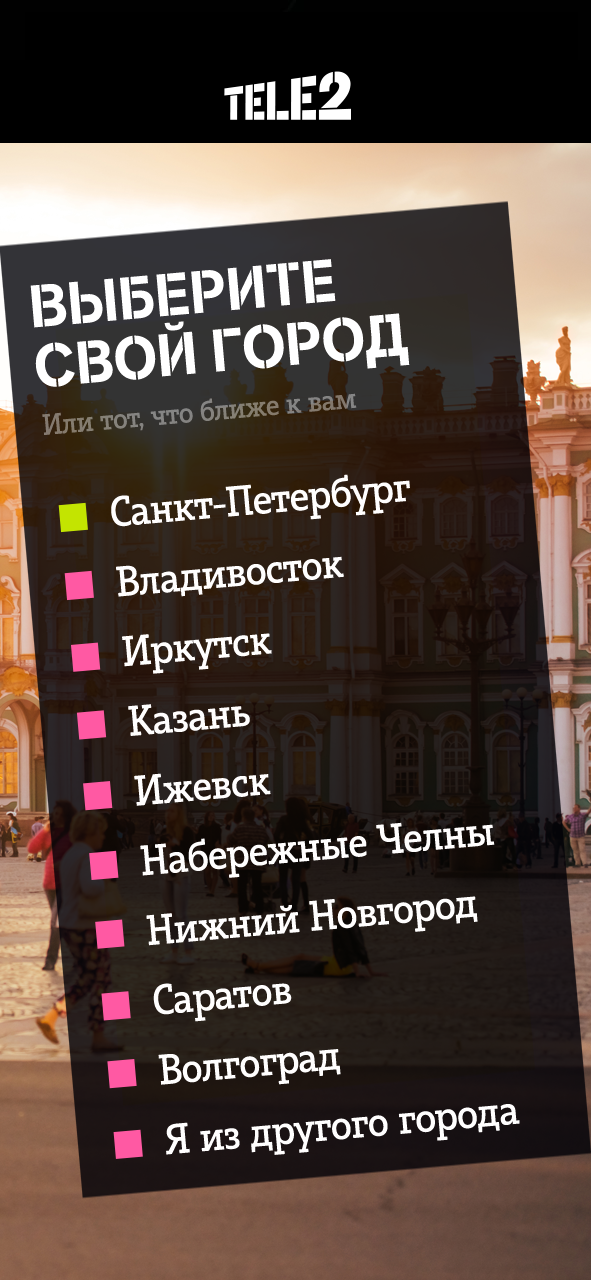
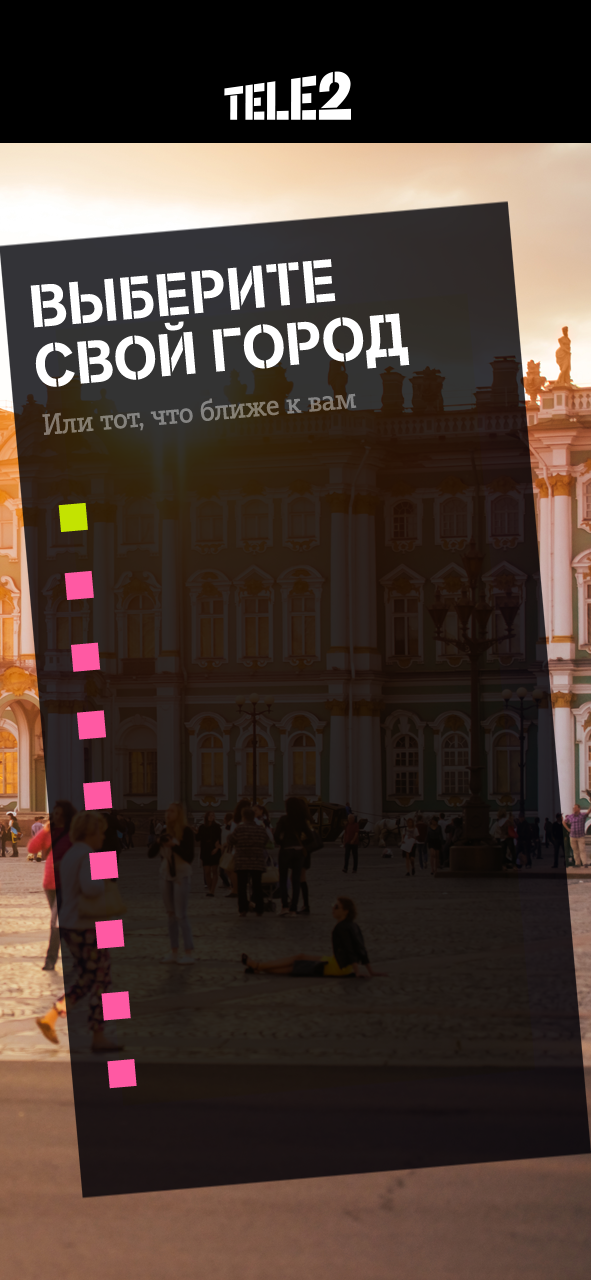
fix city

diff --git a/src/scripts/components/SetCityScreen.ts b/src/scripts/components/SetCityScreen.ts
@@ -15,10 +15,12 @@ export default class SetCityScreen {
   private cityText: Phaser.GameObjects.Text;
   private textBg: Phaser.GameObjects.Sprite;
   private question: Phaser.GameObjects.Sprite;
+  private texts: Phaser.GameObjects.Text[];
 
   constructor(scene: Game) {
     this.scene = scene;
     this.zones = [];
+    this.texts = [];
     this.createElements();
   }
 
@@ -27,30 +29,40 @@ export default class SetCityScreen {
     this.blurBg = this.scene.add.sprite(0, 0, 'city-2').setOrigin(0).setVisible(false);
     this.createButtons();
     this.createCityText();
-    this.zones.push(this.createZone(480, Cities.SPB));
-    this.zones.push(this.createZone(480 + 80, Cities.Vladivostok));
-    this.zones.push(this.createZone(480 + 80 * 2, Cities.Irkutsk));
-    this.zones.push(this.createZone(480 + 80 * 3, Cities.Kazan));
-    this.zones.push(this.createZone(480 + 80 * 4, Cities.Izhevsk));
-    this.zones.push(this.createZone(480 + 80 * 5, Cities.NN));
-    this.zones.push(this.createZone(480 + 80 * 6, Cities.Saratov));
-    this.zones.push(this.createZone(480 + 80 * 7, Cities.Volgograd));
-    this.zones.push(this.createZone(480 + 80 * 8, Cities.Another));
+    
+    const zone1 = this.createZone(495, Cities.SPB);
+    const zone2 = this.createZone(495 + 70, Cities.Vladivostok);
+    const zone3 = this.createZone(495 + 70 * 2, Cities.Irkutsk);
+    const zone4 = this.createZone(495 + 70 * 3, Cities.Kazan);
+    const zone5 = this.createZone(495 + 70 * 4, Cities.Izhevsk);
+    const zone6 = this.createZone(495 + 70 * 5, Cities.NN);
+    const zone7 = this.createZone(495 + 70 * 6, Cities.Saratov);
+    const zone8 = this.createZone(495 + 70 * 7, Cities.Volgograd);
+    const zone9 = this.createZone(495 + 70 * 8, Cities.Another);
+    this.zones.push(zone1.zone, zone2.zone, zone3.zone, zone4.zone, zone5.zone, zone6.zone, zone7.zone, zone8.zone, zone9.zone);
+    this.texts.push(zone1.text, zone2.text, zone3.text, zone4.text, zone5.text, zone6.text, zone7.text, zone8.text, zone9.text);
   }
   
-  private createZone(y: number, city: Cities): Phaser.GameObjects.Zone {
+  private createZone(y: number, city: Cities): { zone: Phaser.GameObjects.Zone, text: Phaser.GameObjects.Text } {
     const { centerX } = this.scene.cameras.main;
+    const text = this.scene.add.text(100 + (6 * (city - 1)), y, cityNames[city], {
+      fontFamily: Fonts.Tele2DisplaySerif_Regular,
+      wordWrap: { width: 450 }, 
+      fontSize: '39px',
+      color: '#fffefe',
+    }).setAngle(-5);
     const zone = this.scene.add.zone(centerX, y, 450, 50).setDropZone(undefined, () => {}).setAngle(-5);
     Utils.click(zone, () => {
       this.selectedCity = city;
       this.openNextScreen(true);
     });
-    return zone;
+    return { zone, text };
   }
 
   private openNextScreen(state: boolean): void {
     this.mainBg.setVisible(!state);
     this.zones.forEach(el => el.setVisible(!state));
+    this.texts.forEach(el => el.setVisible(!state));
     this.blurBg.setVisible(state);
     this.yesButton.setVisible(state);
     this.noButton.setVisible(state);
@@ -101,5 +113,6 @@ export default class SetCityScreen {
     this.textBg.destroy();
     this.question.destroy();
     this.zones.forEach(el => el.destroy());
+    this.texts.forEach(el => el.destroy());
   }
 };

diff --git a/src/scripts/scenes/Boot.ts b/src/scripts/scenes/Boot.ts
@@ -30,7 +30,7 @@ export default class BootScene extends Phaser.Scene {
 
   private initUser(): void {
     if (process.env.DEV) {
-      this.state.vkId = 9
+      this.state.vkId = 10
       this.checkUser();
     } else {
       bridge.send('VKWebAppGetUserInfo').then(data => {
